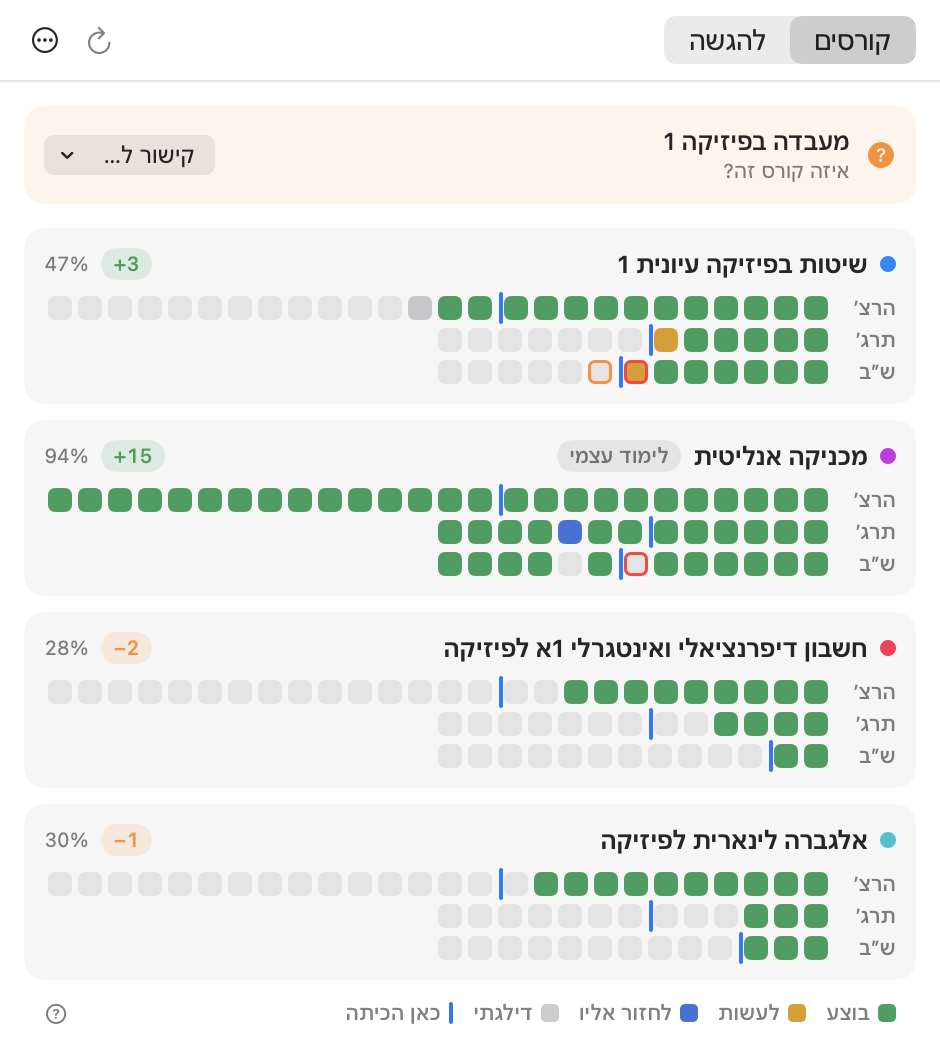
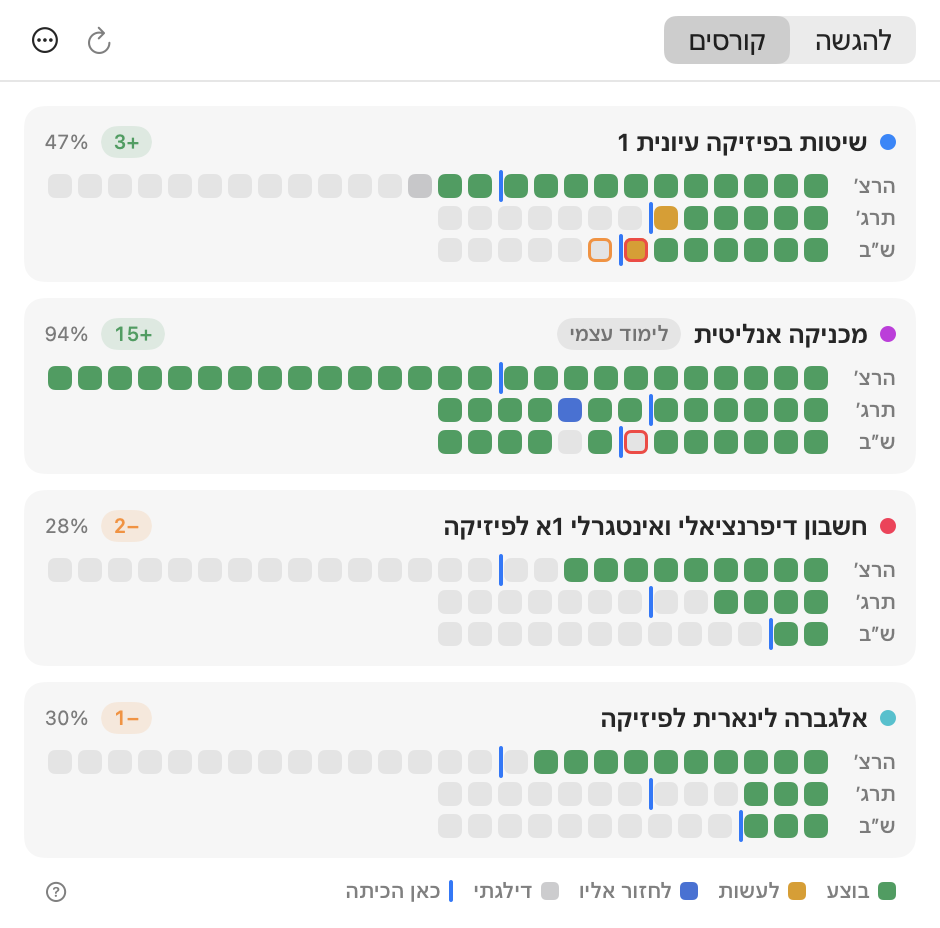
Trim the README to the app, with fresh screenshots
Drop the features list, install, development and logo sections. The
screenshots are regenerated from the demo, in light and dark. The
non-affiliation note moves to License.

diff --git a/README.md b/README.md
@@ -9,54 +9,16 @@
 
 A macOS menu bar companion for Tel Aviv University students. It shows your Moodle deadlines and your progress in each course, and reminds you before things are due. Hebrew by default, with an English option.
 
-**עוזר לסטודנטים באוניברסיטת תל אביב, בשורת התפריטים של ה־Mac: מועדי הגשה מ־Moodle, מעקב התקדמות בקורסים ותזכורות.**
-
-**[Download the latest version](../../releases/latest)** · macOS 14 or later, Apple silicon · free and open source
-
 <p align="center">
-  <img src="assets/screenshots/panel-due-he.png" width="380" alt="Due tab">
-  <img src="assets/screenshots/panel-courses-he.png" width="380" alt="Courses tab">
+  <picture>
+    <source media="(prefers-color-scheme: dark)" srcset="assets/screenshots/panel-due-he-dark.png">
+    <img src="assets/screenshots/panel-due-he.png" width="380" alt="Due tab: upcoming deadlines and exams, grouped by when they're due">
+  </picture>
+  <picture>
+    <source media="(prefers-color-scheme: dark)" srcset="assets/screenshots/panel-courses-he-dark.png">
+    <img src="assets/screenshots/panel-courses-he.png" width="380" alt="Courses tab: lectures, recitations and homework per course, and where the class is">
+  </picture>
 </p>
-
-## Features
-
-- **The next deadline in the menu bar**, with the time left (e.g. `חשבון תרגיל 4 · 22 שע׳`). A deadline disappears once you've submitted it.
-- **Due tab:** every upcoming Moodle deadline and exam, grouped into today, tomorrow, the next 7 days and later. Tick one when you've handed it in. Overdue items are hidden unless you ask for them.
-- **Courses tab:** a card of cubes per course, one row each for lectures, recitations and homework. A blue marker shows where the class is, and `+3` / `−2` shows how far ahead or behind it you are.
-  - *With class* or *self-study* pace per course. For self-study you set a finish date, and the marker shows the class catching up.
-  - Homework cubes link to their Moodle deadlines and turn orange or red as the deadline nears or passes.
-  - With a folder per course, ⌘-click (or right-click) a cube to open its lecture recording, pset folder or recitation file.
-- **Alerts:**
-  - Reminders before each open deadline, with a *Mark done* button.
-  - An alert when Moodle posts a new deadline or moves one.
-  - An optional morning summary of what's due today and tomorrow.
-- **Download a course's files:** click the TAUdo bookmark on a Moodle course page. TAUdo saves every file into the course folder, sorted by section.
-- **Apple Calendar and Google Calendar** (optional): mirrors Moodle into a calendar of its own, or into any calendar you pick. Its alerts reach your iPhone through iCloud.
-  - For Google, add your Google account in System Settings › Internet Accounts and pick one of its calendars. Or use *Subscribe in Google Calendar…*, which subscribes Google to the Moodle link itself (Moodle's titles, refreshed by Google every few hours).
-- **Exam dates** (מועד א and ב) are filled in from [Arazim](https://arazim-project.com) for each Moodle course. Other dates that aren't on Moodle can be added by hand.
-
-## Install
-
-Requires macOS 14 or later on a Mac with Apple silicon.
-
-1. Download `TAUdo-<version>.dmg` from the [latest release](../../releases/latest), open it, and drag TAUdo into the empty circle. The circle is your Applications folder.
-
-   <img src="assets/screenshots/install.png" width="480" alt="The install window: drag the TAUdo icon into the empty circle">
-
-2. Open TAUdo from Applications. It isn't notarized by Apple, so the first time macOS says it can't be opened:
-   1. Click **Done**.
-   2. Open System Settings › Privacy & Security and scroll down to Security.
-   3. Click **Open Anyway** next to “TAUdo was blocked”, then confirm with your password or Touch ID.
-
-   You only do this once. After that TAUdo updates itself (Settings › General › Updates).
-3. The welcome window walks you through the rest:
-   - **Connect Moodle:** TAUdo opens Moodle's *Export calendar* page in your browser. Log in, click the button to get the calendar URL, and copy it. TAUdo picks it up from the clipboard.
-   - **Choose your courses:** your Moodle courses are listed, and TAUdo creates the ones you pick, already linked to Moodle.
-   - **Course folder** (optional) and **notifications**.
-
-Optional: from the ⋯ menu, choose *Install sync bookmark…* and drag the button to your bookmarks bar. Clicking it on Moodle tells TAUdo which assignments you've already submitted. On a course page, it also offers to download the course's files.
-
-To uninstall: turn off *Open at login* in Settings › General, quit TAUdo (⋯ › Quit TAUdo), then delete the app and `~/Library/Application Support/TAUdo`. If you used calendar sync, also delete its “Moodle” calendar in Calendar.
 
 ## Privacy
 
@@ -86,39 +48,8 @@ Some details:
 - Moodle's to-do list also drops activities you marked complete by hand. Untick a deadline to override; TAUdo never re-applies the same report.
 - TAU Moodle opens in guest mode, and guests get a session too. The bookmark only runs on pages with a logout link, and TAUdo ignores guest export links (`userid=1`).
 
-## Development
-
-Requires Xcode and XcodeGen (`brew install xcodegen`). Releasing also needs uv and the GitHub CLI (`brew install uv gh`).
-
-```sh
-scripts/build.sh test            # unit tests, then ./TAUdo.app (Release)
-scripts/check_translations.sh    # every UI string has a Hebrew translation
-scripts/make_icon.sh             # app icon, logo and DMG images from Sources/UI/Logo.swift
-scripts/release.sh [--publish]   # DMG + signed Sparkle appcast in dist/; --publish makes the GitHub release
-```
-
-| Flag | Effect |
-|---|---|
-| `--demo` | Sample data in memory; your saved state is never touched |
-| `--snapshot <dir>` | With `--demo`, renders the panel, settings and welcome window to PNGs offscreen (pass `-language he -AppleLanguages "(he)"` or `en` too) |
-| `-language en -AppleLanguages '(en)'` | English UI |
-| `--settings` | Opens the Settings window at launch |
-| `--dark` | Dark appearance |
-
-```
-Sources/Core      Moodle iCal parser, Hebrew/English deadline classifier, models, pacing, alerts, download filing (unit-tested)
-Sources/Services  App state and sync loop, Moodle link and bookmark, Apple Calendar, notifications, language
-Sources/UI        Menu bar panel, course cubes, settings, welcome window, logo
-Sources/he.lproj  Hebrew strings
-Tests             XCTest
-```
-
-## Logo
-
-The logo is a check mark in a solid circle, followed by TAU's heavy ring and interlocking rings. The three circles read as a checklist (done, in progress, to do). The app icon is the check circle, and the installer has you drag it into its place in the logo.
-
-TAUdo is not affiliated with or endorsed by Tel Aviv University. The TAU logo and name are the university's trademarks.
-
 ## License
 
 The code is under the [MIT License](LICENSE). The ring shapes in the logo come from Tel Aviv University's logo and are not covered by it.
+
+TAUdo is not affiliated with or endorsed by Tel Aviv University. The TAU logo and name are the university's trademarks.
